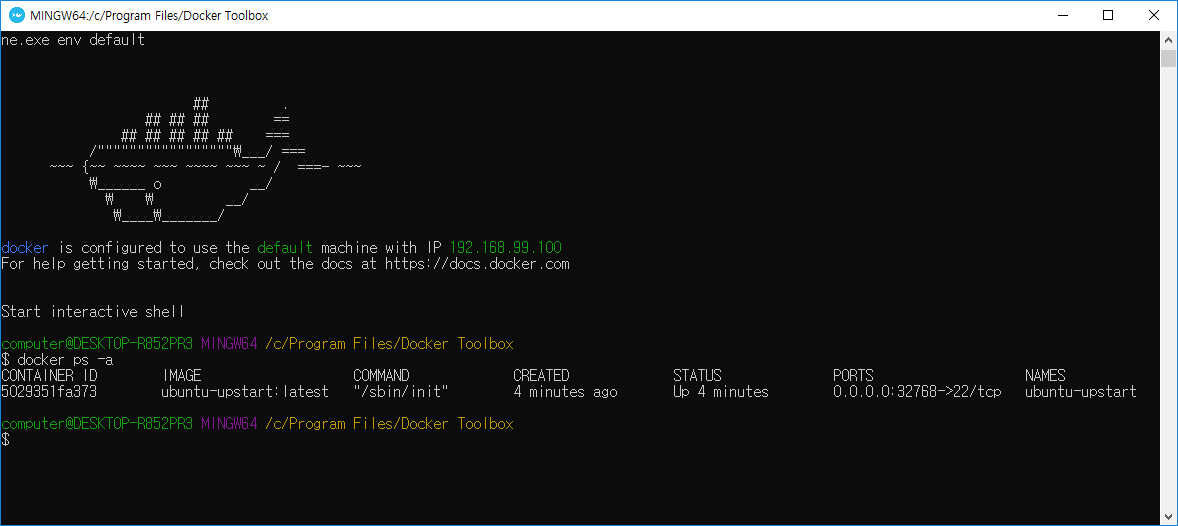
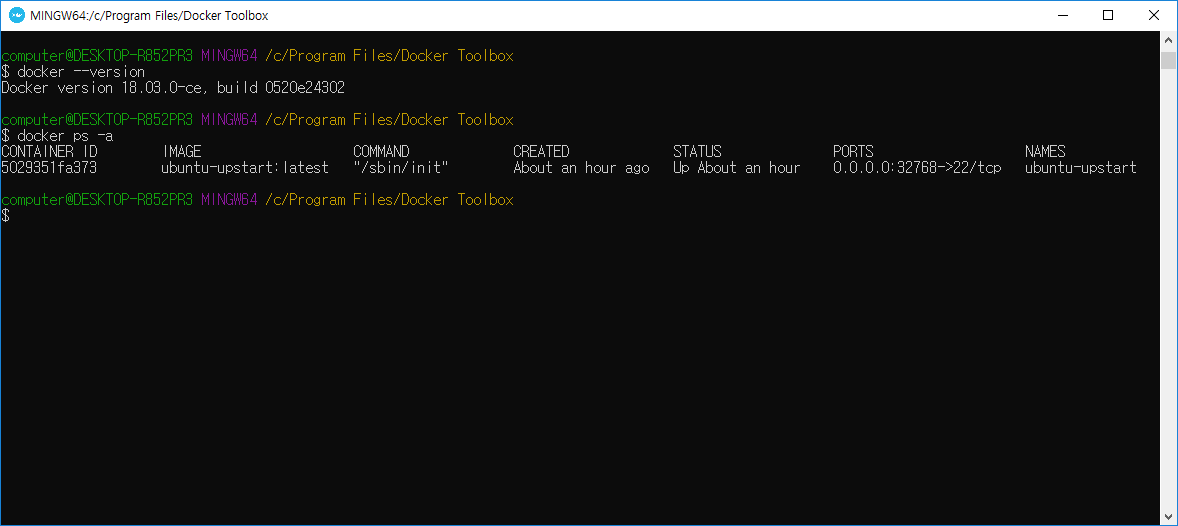
우분투 컨테이너 생성

diff --git a/Docker/우분투_컨테이너_생성하기.md b/Docker/우분투_컨테이너_생성하기.md
@@ -1,0 +1,32 @@
+# 도커 우분투 컨테이너 생성하기
+
+## 도커 툴박스 사용하기
+
+<img src="https://github.com/wkddnjset/ELK-Tutorial/blob/master/img/Kitematic_0.png"><br>
+도커 툴박스인 `Kitematic`을 실행합니다.
+
+<br><br>
+<img src="https://github.com/wkddnjset/ELK-Tutorial/blob/master/img/Kitematic_1.png"><br>
+잠시 기다리면 위와 같은 화면이 나오는데, 로그인을 위해 `USE VIRTUALBOX` 버튼을 선택합니다.
+
+<br><br>
+<img src="https://github.com/wkddnjset/ELK-Tutorial/blob/master/img/Kitematic_2.png"><br>
+도커에 로그인합니다.
+> 아이디가 없으면 `Signup`을 눌러 회원가입을 합니다.
+
+<br><br>
+<img src="https://github.com/wkddnjset/ELK-Tutorial/blob/master/img/Kitematic_3.png"><br>
+검색창에 `ubuntu`를 검색해 추천해 주는 컨테이너를 `Create` 합니다.
+> 컨테이너 종류로는 OS만 있는것이 아니기에 필요에 따라 컨테이너를 커스터마이징 혹은 설치해서 사용 가능합니다.
+
+<br><br>
+<img src="https://github.com/wkddnjset/ELK-Tutorial/blob/master/img/Kitematic_4.png"><br>
+설치가 완료되면 **CMD**에 `$ docker ps -a`이라는 명령어로 현재 생서된 도커 컨테이너를 확인 할 수 있습니다.
+> 저는 도커에서 제공해주는 CMD를 사용했습니다.
+
+<br><br>
+<img src="https://github.com/wkddnjset/ELK-Tutorial/blob/master/img/Kitematic_5.png"><br>
+```bash
+$ docker exec -it <CONTAINER ID> /bin/bash
+```
+위 명렁여로 도커 컨테이너에 접속이 가능합니다.
